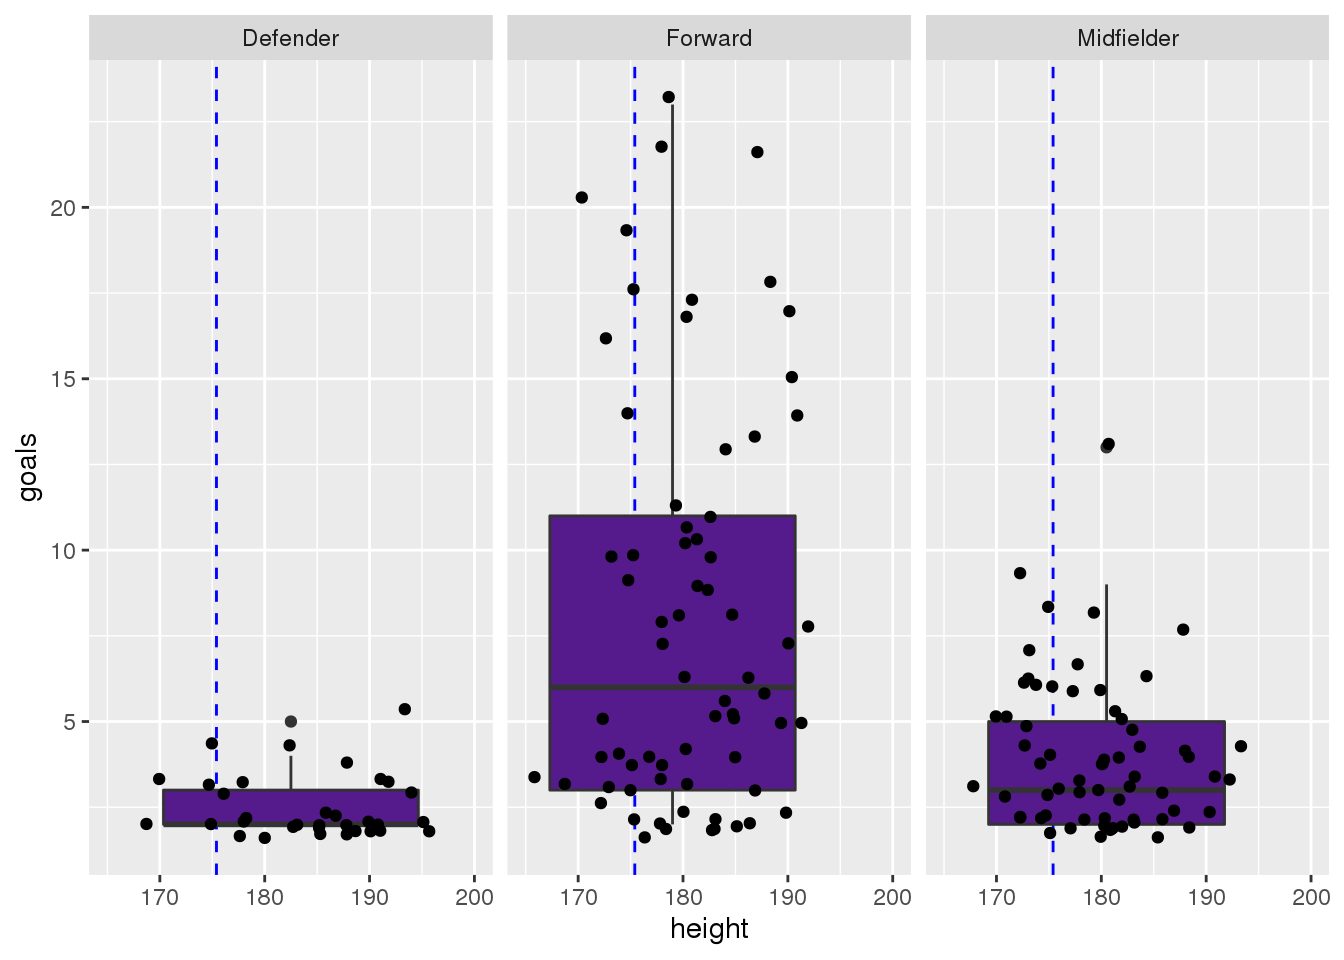
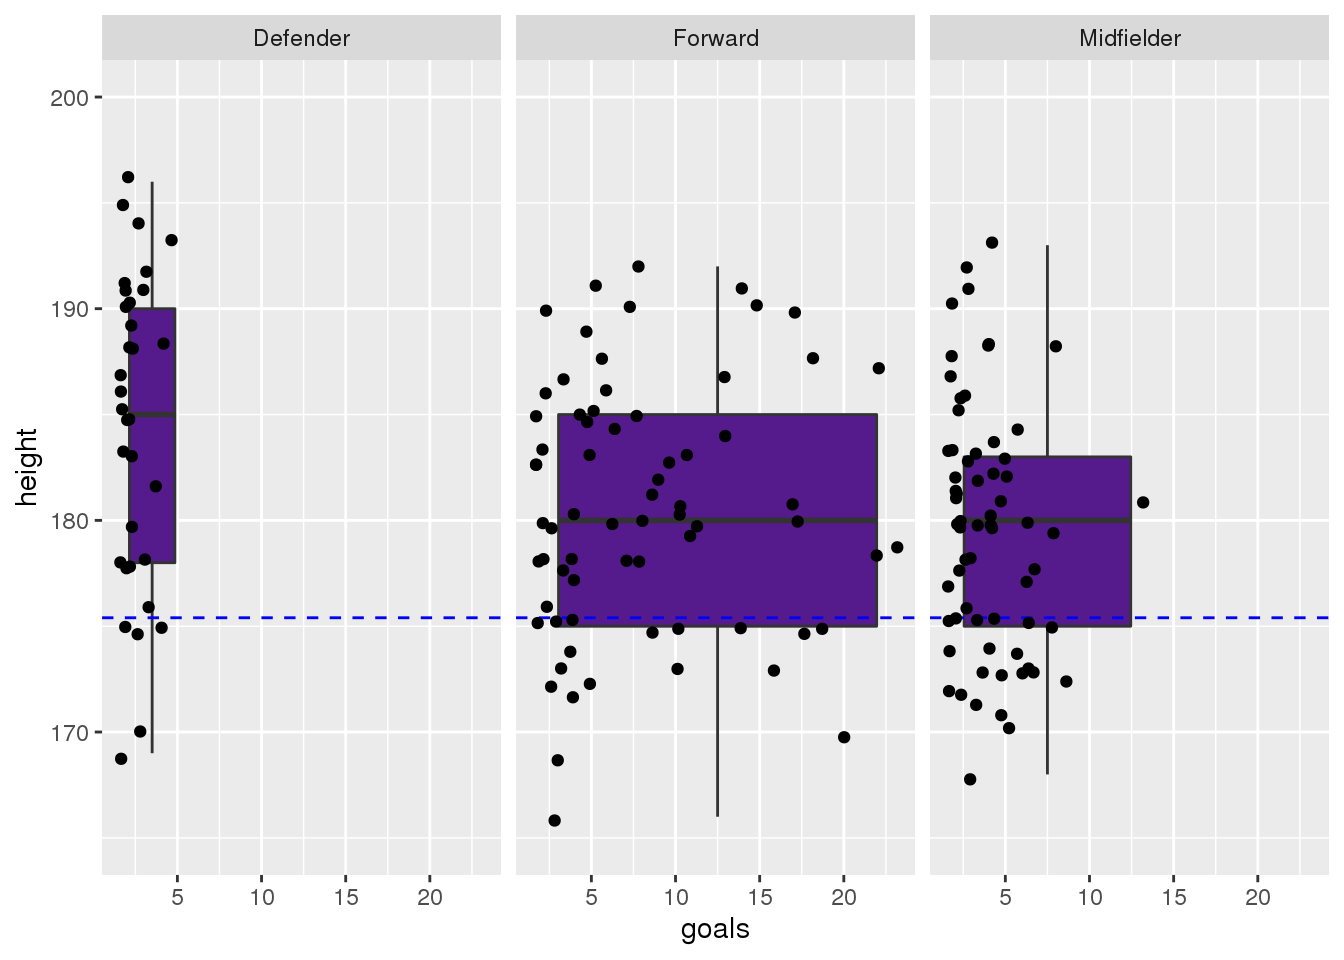
testing graphs for epl data

diff --git a/content/post/2020-12-09-english-premier-league-19-20/index.html b/content/post/2020-12-09-english-premier-league-19-20/index.html
@@ -13,6 +13,7 @@ tags: [R, blogdown]
 
 <pre class="r"><code>library(here)
 library(ggplot2)
+library(patchwork)
 library(tidyverse)
 library(readxl)
 library(tinytex)
@@ -84,7 +85,7 @@ epl4 &lt;- read.csv(file = here::here(&quot;epl_data&quot;, &quot;players_1920_f
 <pre><code>##   avg_height
 ## 1   175.3985</code></pre>
 <pre><code>## Warning: Continuous x aesthetic -- did you forget aes(group=...)?</code></pre>
-<pre><code>## Warning: Removed 1 rows containing missing values (stat_boxplot).</code></pre>
+<pre><code>## Warning: Removed 1 rows containing non-finite values (stat_boxplot).</code></pre>
 <pre><code>## Warning: Removed 1 rows containing missing values (geom_point).</code></pre>
 <p><img src="index_files/figure-html/unnamed-chunk-3-1.png" width="672" />
 The boxplot graph above shows the data for each position. The blue dashed line shows the average height of the players in the English Premier League, which is 175.4 cm or 5’7 ft. So, the results show that taller players tend to score more as forwards, which is surprising to me, as I would think a bit shorter, more agile player would be more effective.</p>
@@ -246,9 +247,15 @@ The boxplot graph above shows the data for each position. The blue dashed line s
 ## 19   CHE          66             4
 ## 20   WHU          39            16</code></pre>
 <p>Using both of these data sets, I will join them by name and create just one data set that is easiy to read. Then i will graph them to show if the average age of players on each team correlates with the amount of wins.</p>
-<p>*Question 3: Third, overall, do teams that spend more money correlate to their performance. Do team that spend more money obtaining and paying more players translate to more wins. I will be comparing the total amount spent by each team and comparing them in a bar chart.</p>
-<p>Need to find a more organized data set that shows the amount of money each soccer club spent in the league. Then, I will join that to the results of the ending of the season standing.</p>
-<p>*Question 4: Fourth, To be announced.</p>
+<p>#Question 3: Which player scores more goals per game?.
+Do team that spend more money obtaining and paying more players translate to more wins. I will be comparing the total amount spent by each team and comparing them in a bar chart.</p>
+<pre><code>## 
+## Attaching package: &#39;cowplot&#39;</code></pre>
+<pre><code>## The following object is masked from &#39;package:patchwork&#39;:
+## 
+##     align_plots</code></pre>
+<p><img src="index_files/figure-html/unnamed-chunk-6-1.png" width="672" />
+*Question 4: Fourth, To be announced.</p>
 <p><strong>Conclusion</strong></p>
 <p>More analysis and question to come.</p>
 <p>*To be Determined</p>
